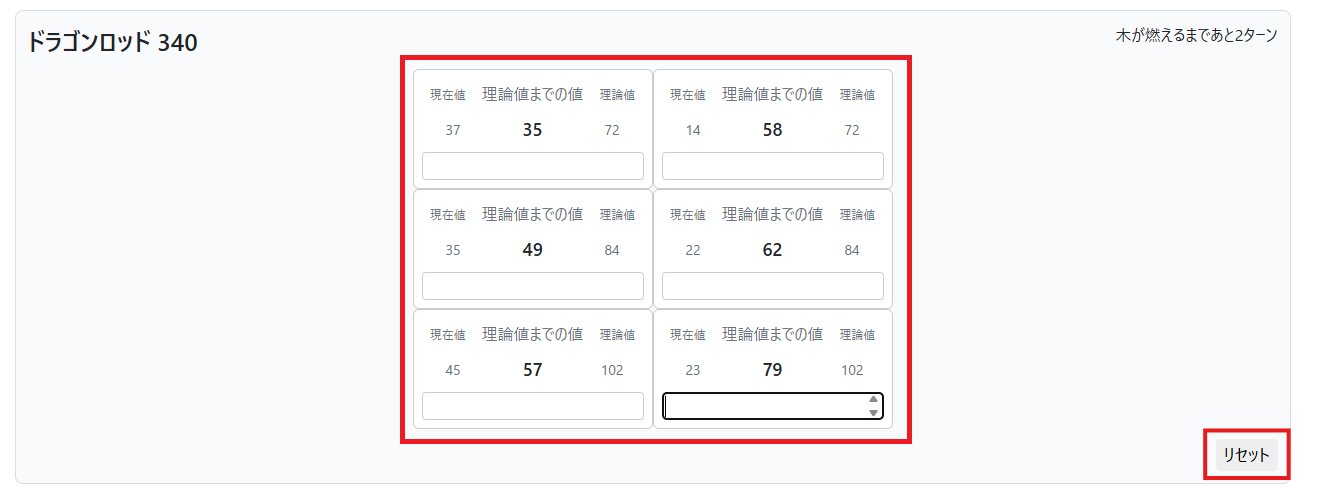
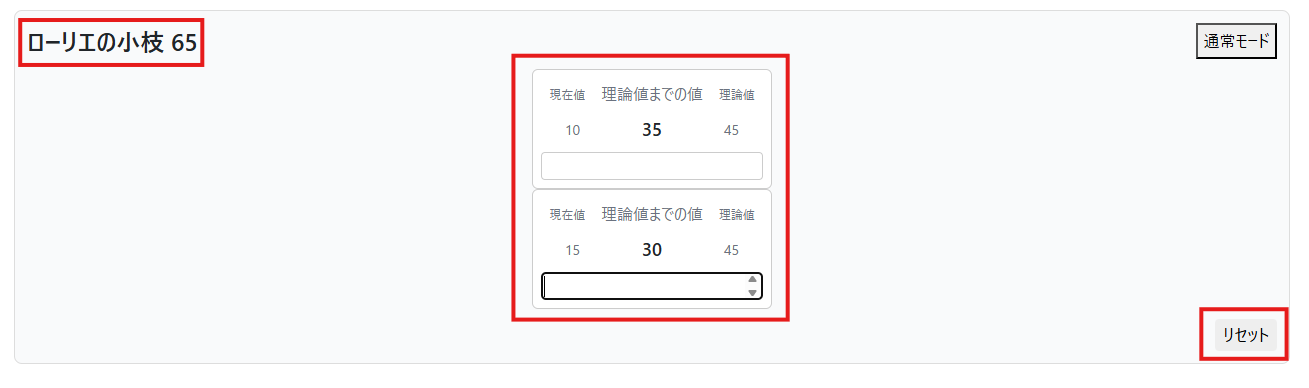
update:mode_change

diff --git a/DQXMaterialCalculator/src/main/resources/static/js/craftCalculator.js b/DQXMaterialCalculator/src/main/resources/static/js/craftCalculator.js
@@ -8,27 +8,9 @@ function createCard(craft) {
 	subTitle.className = "sub-title";
 	subTitle.textContent = craft.name + " " + allDiffValue;
 
-	let characteristic;
-	let isCycled = false;
-	if (craft.characteristic === "木目変化") characteristic = "木目変化まであと"
-	else if (craft.characteristic === "燃え木") characteristic = "木が燃えるまであと"
-	else if (craft.characteristic === "再生木") characteristic = "木が再生するまであと"
-	else if (craft.characteristic === "虹木") characteristic = "集中力半分まであと"
-	else if (craft.characteristic === "再生布") characteristic = "布が再生するまであと"
-	else if (craft.characteristic === "会心布") characteristic = "威力・会心UPまであと"
-	else if (craft.characteristic === "虹布") characteristic = "集中力半分まであと"
-	else characteristic = ""
-
-	let characteristicTurn = 4;
-	const characteristicTurnDiv = document.createElement("div");
-	characteristicTurnDiv.className = "characteristic-turn";
-	characteristicTurnDiv.textContent = characteristic + characteristicTurn + "ターン";
-	if (characteristic === "") characteristicTurnDiv.textContent = ""
-
 	const top = document.createElement("div");
 	top.className = "top";
 	top.appendChild(subTitle);
-	if (characteristic != "") top.appendChild(characteristicTurnDiv);
 	card.appendChild(top);
 
 	// レイアウトクラスを選択
@@ -53,6 +35,10 @@ function createCard(craft) {
 
 	// 小カード単位でリセット関数を格納
 	const smallCardResets = [];
+
+	// 小カード単位でモードチェンジ関数を格納
+	const smallCardModeChanges = [];
+	let isCurrentMode = false;
 
 	// valueごとに小カードを作成
 	(craft.value || []).forEach((v, i) => {
@@ -99,43 +85,27 @@ function createCard(craft) {
 		MinusInput.dataset.index = i;
 		MinusInput.addEventListener("keydown", e => {
 			if (e.key === "Enter") {
-				e.preventDefault();
-				const plusValue = Number(MinusInput.value || 0);
-				currentValue = currentValue + plusValue;
-				currentValueDiv.textContent = currentValue;
-				diffValue = diffValue - plusValue;
-				diffValueDiv.textContent = diffValue;
-				allDiffValue = allDiffValue - plusValue;
-				subTitle.textContent = craft.name + " " + allDiffValue;
-				characteristicTurn = characteristicTurn - 1;
-				if (characteristicTurn == 0) {
-					characteristicTurn = 4;
-					characteristicTurnDiv.classList.remove("lastTurn");
-					if (characteristic === "虹布") {
-						if (isCycled == false) {
-							characteristic = "集中力会心率UPまであと";
-							isCycled = true;
-						}
-						else if (isCycled == true) {
-							characteristic = "集中力半分まであと";
-							isCycled = false;
-						}
-					}
-					else if (characteristic === "虹木") {
-						if (isCycled == false) {
-							characteristic = "集中力会心率UPまであと";
-							isCycled = true;
-						}
-						else if (isCycled == true) {
-							characteristic = "集中力半分まであと";
-							isCycled = false;
-						}
-					}
+				if (isCurrentMode) {
+					e.preventDefault();
+					const plusValue = Number(MinusInput.value || 0);
+					currentValue = plusValue;
+					currentValueDiv.textContent = currentValue;
+					temp = diffValue;
+					diffValue = originalValue - plusValue;
+					diffValueDiv.textContent = diffValue;
+					allDiffValue = allDiffValue - (temp - diffValue);
+					subTitle.textContent = craft.name + " " + allDiffValue;
 				}
-				else if (characteristicTurn == 1) {
-					characteristicTurnDiv.classList.add("lastTurn");
+				else {
+					e.preventDefault();
+					const plusValue = Number(MinusInput.value || 0);
+					currentValue = currentValue + plusValue;
+					currentValueDiv.textContent = currentValue;
+					diffValue = diffValue - plusValue;
+					diffValueDiv.textContent = diffValue;
+					allDiffValue = allDiffValue - plusValue;
+					subTitle.textContent = craft.name + " " + allDiffValue;
 				}
-				characteristicTurnDiv.textContent = characteristic + characteristicTurn + "ターン";
 				MinusInput.value = "";
 			}
 		});
@@ -148,14 +118,19 @@ function createCard(craft) {
 			currentValueDiv.textContent = currentValue;
 			diffValueDiv.textContent = diffValue;
 			subTitle.textContent = craft.name + " " + allDiffValue;
-			characteristicTurn = 4;
-			characteristicTurnDiv.classList.remove("lastTurn");
-			characteristicTurnDiv.textContent = characteristic + characteristicTurn + "ターン";
 			MinusInput.value = "";
+		}
+
+		// --- 小カード単位のモードチェンジ関数 ---
+		function modeChangeCard() {
+			console.log("小カードのモード変更:", isCurrentMode);
 		}
 
 		// リセット関数を格納
 		smallCardResets.push(resetSmallCard);
+		// モードチェンジ関数を格納
+		smallCardModeChanges.push(modeChangeCard);
+
 		valueNameArea.appendChild(currentValueName);
 		valueNameArea.appendChild(diffValueName);
 		valueNameArea.appendChild(originalValueName);
@@ -180,6 +155,18 @@ function createCard(craft) {
 		smallCardResets.forEach(fn => fn());
 	});
 	card.appendChild(resetCardBtn);
+
+	// --- カード単位モード切替ボタン ---
+	const modeChangeBtn = document.createElement("button");
+	modeChangeBtn.className = "mode-change-btn";
+	modeChangeBtn.textContent = "通常モード";
+	modeChangeBtn.addEventListener("click", () => {
+		isCurrentMode = !isCurrentMode;
+		modeChangeBtn.textContent = isCurrentMode ? "現在値入力モード" : "通常モード";
+		smallCardModeChanges.forEach(fn => fn());
+	});
+	top.appendChild(modeChangeBtn);
+
 
 	return card;
 }

diff --git a/DQXMaterialCalculator/src/main/resources/static/css/craftStyle.css b/DQXMaterialCalculator/src/main/resources/static/css/craftStyle.css
@@ -274,8 +274,8 @@
 
 .layout-head{
 	display: grid;
-	grid-template-columns: repeat(3, 120px);
-	grid-template-rows: repeat(2, 240px);
+	grid-template-columns: repeat(3, 240px);
+	grid-template-rows: repeat(2, 120px);
     justify-content: center;
 }
 .layout-head .small-card:nth-child(1) {
@@ -297,7 +297,7 @@
 
 .layout-body-u{
 	display: grid;
-	grid-template-columns: repeat(3, 120px);
+	grid-template-columns: repeat(3, 240px);
 	grid-template-rows: repeat(3, 120px);
     justify-content: center;
 }
@@ -371,8 +371,8 @@
 
 .layout-arm{
 	display: grid;
-	grid-template-columns: repeat(3, 120px);
-	grid-template-rows: repeat(2, 240px);
+	grid-template-columns: repeat(3, 240px);
+	grid-template-rows: repeat(2, 120px);
     justify-content: center;
 }
 .layout-arm .small-card:nth-child(1) {
@@ -403,7 +403,7 @@
 .layout-foot{
 	display: grid;
 	grid-template-columns: repeat(2, 240px);
-	grid-template-rows: repeat(2, 240px);
+	grid-template-rows: repeat(2, 120px);
     justify-content: center;
 }
 .layout-foot .small-card:nth-child(1) {
@@ -425,7 +425,7 @@
 
 .layout-chair{
 	display: grid;
-	grid-template-columns: repeat(3, 120px);
+	grid-template-columns: repeat(3, 240px);
 	grid-template-rows: repeat(3, 120px);
     justify-content: center;
 }
@@ -464,7 +464,7 @@
 
 .layout-table{
 	display: grid;
-	grid-template-columns: repeat(3, 120px);
+	grid-template-columns: repeat(3, 240px);
 	grid-template-rows: repeat(3, 120px);
     justify-content: center;
 }

diff --git a/DQXMaterialCalculator/src/main/resources/templates/about.html b/DQXMaterialCalculator/src/main/resources/templates/about.html
@@ -55,8 +55,9 @@
 			   		<img th:src="@{/image/説明_計算後.png}" alt="説明_計算後">
 				</div>
 				<div>
-					<h2>６．特殊な木もしくは布の場合はあと何ターン後に何が起こるかが表示されるぞ！</h2>
-			   		<img th:src="@{/image/説明_特殊ターン.png}" alt="説明_特殊ターン">
+					<h2>６．各行動ごとに数値を入力する通常モードと、現在の累計値を入力する現在値入力モードを選べるぞ！</span>画面に表示されているモードが今適用されているモードだ！</h2>
+			   		<img th:src="@{/image/説明_通常モード.png}" alt="説明_通常モード">
+					<img th:src="@{/image/説明_現在値入力モード.png}" alt="説明_現在値入力モード">
 				</div>
 				<div>
 					<h2>７．リセットボタンを押せば、数値をリセットすることができるぞ！</h2>
